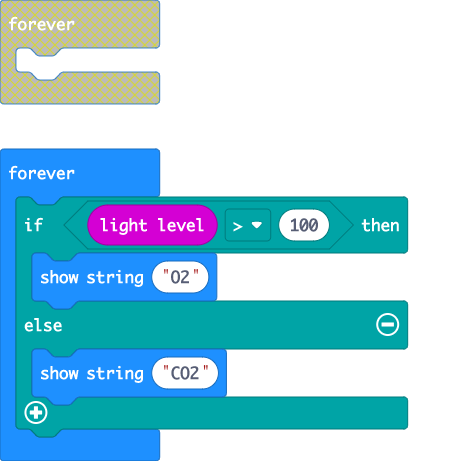
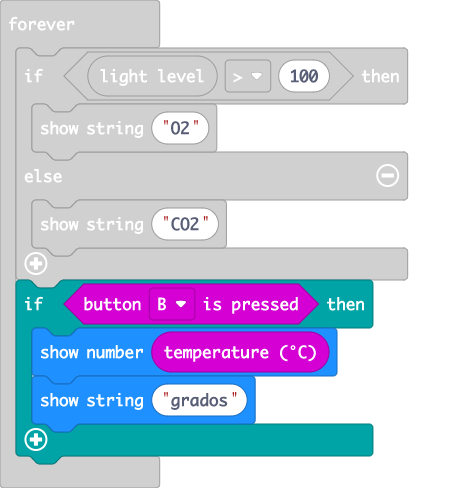
Update pxt.json, main.blocks, main.ts

diff --git a/main.ts b/main.ts
@@ -4,4 +4,8 @@ basic.forever(function () {
     } else {
         basic.showString("CO2")
     }
+    if (input.buttonIsPressed(Button.B)) {
+        basic.showNumber(input.temperature())
+        basic.showString("grados")
+    }
 })
